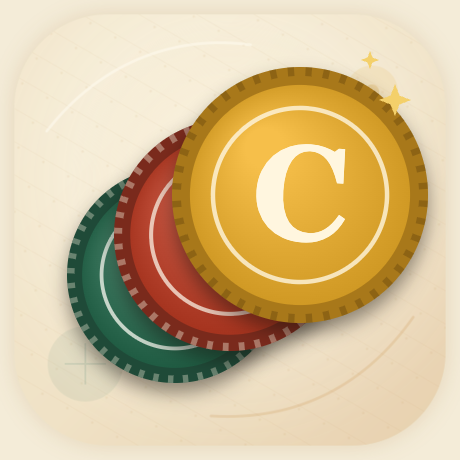
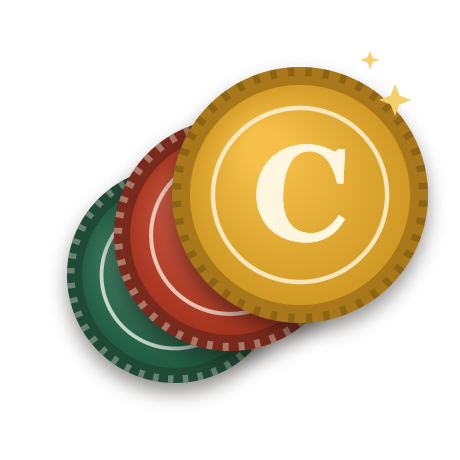
Updates

diff --git a/sw.js b/sw.js
@@ -1,1 +1,1 @@
-if(!self.define){let e,i={};const n=(n,c)=>(n=new URL(n+".js",c).href,i[n]||new Promise(i=>{if("document"in self){const e=document.createElement("script");e.src=n,e.onload=i,document.head.appendChild(e)}else e=n,importScripts(n),i()}).then(()=>{let e=i[n];if(!e)throw new Error(`Module ${n} didn’t register its module`);return e}));self.define=(c,s)=>{const o=e||("document"in self?document.currentScript.src:"")||location.href;if(i[o])return;let r={};const a=e=>n(e,o),f={module:{uri:o},exports:r,require:a};i[o]=Promise.all(c.map(e=>f[e]||a(e))).then(e=>(s(...e),r))}}define(["./workbox-9c191d2f"],function(e){"use strict";self.skipWaiting(),e.clientsClaim(),e.precacheAndRoute([{url:"registerSW.js",revision:"227a3086067b0b313353fe26cb698f3d"},{url:"index.html",revision:"33eeab927fbe64a404574dc51dbb9a5a"},{url:"favicon.png",revision:"12a67bec3986fe65a3abd55eaa800a73"},{url:"icons/icon.png",revision:"45d57f2a11e84940abd826bf59ad0201"},{url:"icons/icon-maskable-512.png",revision:"7f54529dc9ea9afa3a8ac27e9332f40c"},{url:"icons/icon-512.png",revision:"b6586a012d8ce08367d5ca4ec0aa00e3"},{url:"icons/icon-192.png",revision:"4cd72a6f2f98e26f2428857eb87df9c0"},{url:"icons/apple-touch-icon.png",revision:"28d81188a7f8c77b8a162e09c8d6e3e2"},{url:"assets/index-P0uy2DO4.css",revision:null},{url:"assets/index-CUnhKKGU.js",revision:null},{url:"icons/icon-192.png",revision:"4cd72a6f2f98e26f2428857eb87df9c0"},{url:"icons/icon-512.png",revision:"b6586a012d8ce08367d5ca4ec0aa00e3"},{url:"icons/icon-maskable-512.png",revision:"7f54529dc9ea9afa3a8ac27e9332f40c"},{url:"icons/icon.png",revision:"45d57f2a11e84940abd826bf59ad0201"},{url:"manifest.webmanifest",revision:"84fc19fcbcd5c09bc4706f691e231f3a"}],{}),e.cleanupOutdatedCaches(),e.registerRoute(new e.NavigationRoute(e.createHandlerBoundToURL("index.html")))});
+if(!self.define){let e,i={};const n=(n,c)=>(n=new URL(n+".js",c).href,i[n]||new Promise(i=>{if("document"in self){const e=document.createElement("script");e.src=n,e.onload=i,document.head.appendChild(e)}else e=n,importScripts(n),i()}).then(()=>{let e=i[n];if(!e)throw new Error(`Module ${n} didn’t register its module`);return e}));self.define=(c,s)=>{const o=e||("document"in self?document.currentScript.src:"")||location.href;if(i[o])return;let r={};const a=e=>n(e,o),f={module:{uri:o},exports:r,require:a};i[o]=Promise.all(c.map(e=>f[e]||a(e))).then(e=>(s(...e),r))}}define(["./workbox-9c191d2f"],function(e){"use strict";self.skipWaiting(),e.clientsClaim(),e.precacheAndRoute([{url:"registerSW.js",revision:"227a3086067b0b313353fe26cb698f3d"},{url:"index.html",revision:"33eeab927fbe64a404574dc51dbb9a5a"},{url:"favicon.png",revision:"12a67bec3986fe65a3abd55eaa800a73"},{url:"icons/icon.png",revision:"1e9d4e3343c8e4fc3223c1f501acf2c4"},{url:"icons/icon-maskable-512.png",revision:"7f54529dc9ea9afa3a8ac27e9332f40c"},{url:"icons/icon-512.png",revision:"b6586a012d8ce08367d5ca4ec0aa00e3"},{url:"icons/icon-192.png",revision:"4cd72a6f2f98e26f2428857eb87df9c0"},{url:"icons/apple-touch-icon.png",revision:"28d81188a7f8c77b8a162e09c8d6e3e2"},{url:"assets/index-P0uy2DO4.css",revision:null},{url:"assets/index-CUnhKKGU.js",revision:null},{url:"icons/icon-192.png",revision:"4cd72a6f2f98e26f2428857eb87df9c0"},{url:"icons/icon-512.png",revision:"b6586a012d8ce08367d5ca4ec0aa00e3"},{url:"icons/icon-maskable-512.png",revision:"7f54529dc9ea9afa3a8ac27e9332f40c"},{url:"icons/icon.png",revision:"1e9d4e3343c8e4fc3223c1f501acf2c4"},{url:"manifest.webmanifest",revision:"84fc19fcbcd5c09bc4706f691e231f3a"}],{}),e.cleanupOutdatedCaches(),e.registerRoute(new e.NavigationRoute(e.createHandlerBoundToURL("index.html")))});